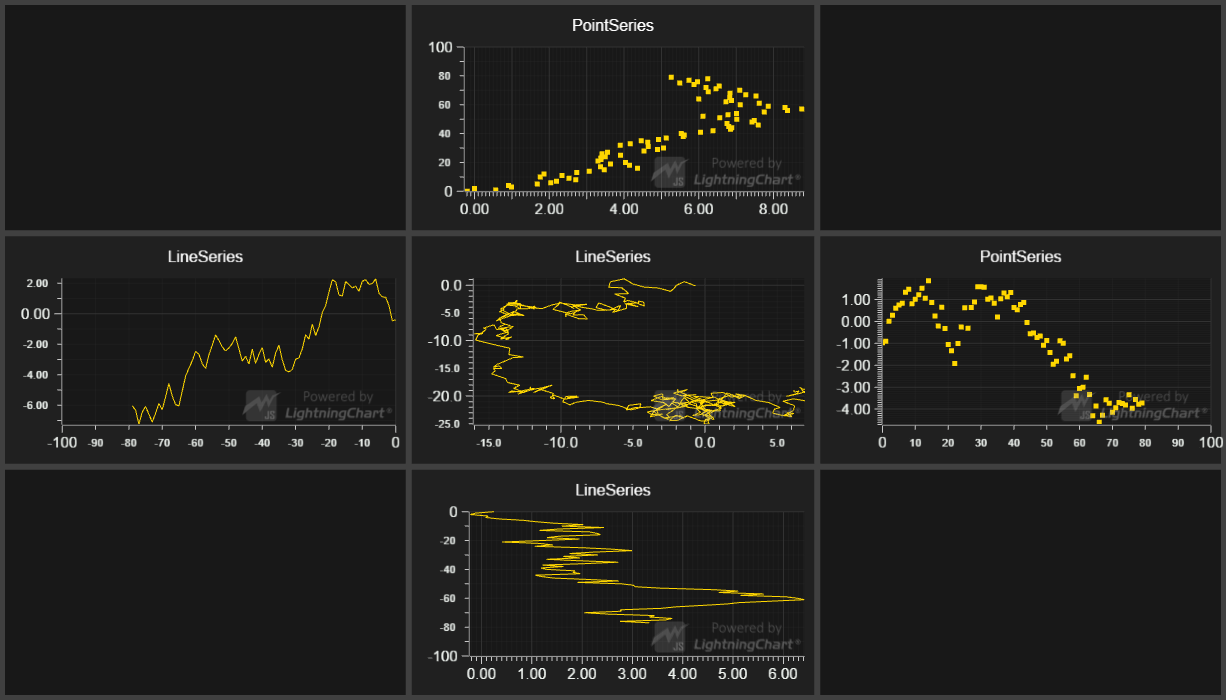
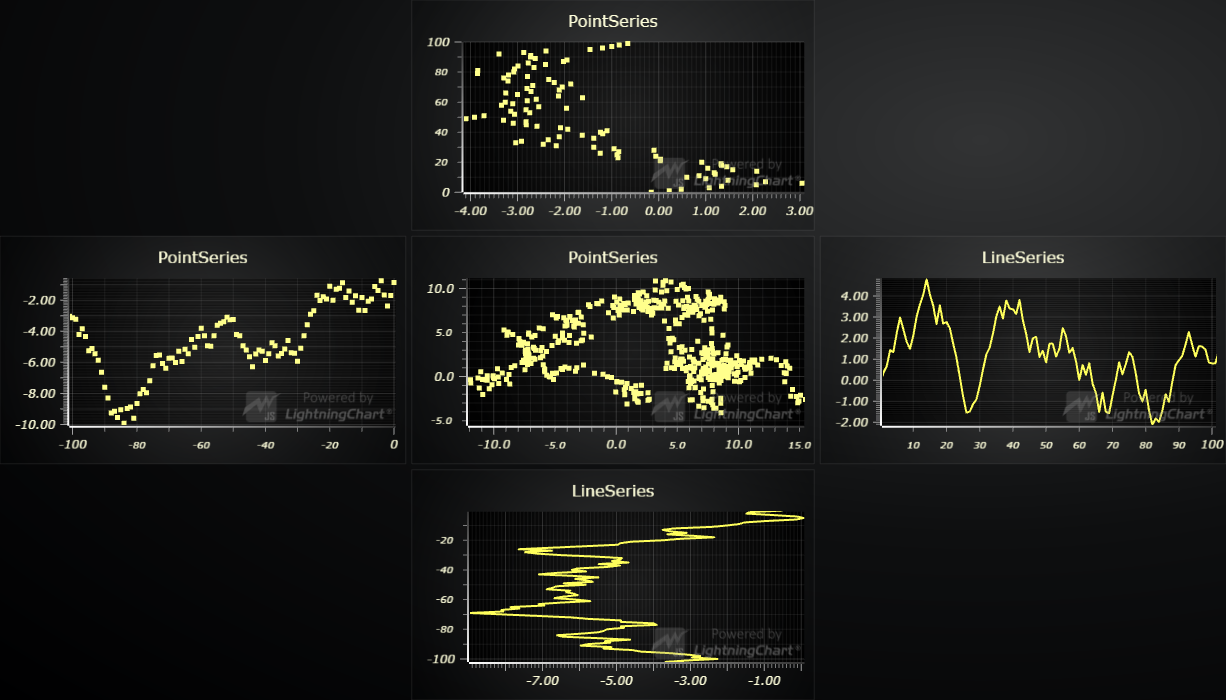
Update LCJS version

Changed region(s): [[0.0, 0.0, 1.0, 1.0], [0.7439, 0.15, 0.8679, 0.27], [0.8059, 0.36, 0.8679, 0.39]]

diff --git a/webpack.config.js b/webpack.config.js
@@ -69,7 +69,8 @@ module.exports = {
         }),
         new CopyWebpackPlugin({
             patterns: [
-                { from: './assets/**/*', to: './examples/assets', flatten: true, noErrorOnMissing: true }
+                { from: './assets/**/*', to: './examples/assets', flatten: true, noErrorOnMissing: true },
+                { from: './node_modules/@arction/lcjs/dist/resources', to: 'resources', noErrorOnMissing: true },
             ]
         })
     ]

diff --git a/src/index.js b/src/index.js
@@ -22,7 +22,7 @@ const {
 
 // Create a 3x3 dashboard.
 const grid = lightningChart().Dashboard({
-    // theme: Themes.dark 
+    // theme: Themes.darkGold 
     numberOfRows: 3,
     numberOfColumns: 3
 })

diff --git a/README.md b/README.md
@@ -55,12 +55,12 @@ Direct developer email support can be purchased through a [Support Plan][4] or b
 © Arction Ltd 2009-2020. All rights reserved.
 
 
-[Dashboard]: https://www.arction.com/lightningchart-js-api-documentation/v3.0.1/classes/dashboard.html
-[Solid FillStyle]: https://www.arction.com/lightningchart-js-api-documentation/v3.0.1/classes/solidfill.html
-[RGBA color factory]: https://www.arction.com/lightningchart-js-api-documentation/v3.0.1/globals.html#colorrgba
-[XY cartesian chart]: https://www.arction.com/lightningchart-js-api-documentation/v3.0.1/classes/chartxy.html
-[Axis]: https://www.arction.com/lightningchart-js-api-documentation/v3.0.1/classes/axis.html
-[Scroll strategies]: https://www.arction.com/lightningchart-js-api-documentation/v3.0.1/globals.html#axisscrollstrategies
-[Freeform line series]: https://www.arction.com/lightningchart-js-api-documentation/v3.0.1/classes/lineseries.html
-[Default library style]: https://www.arction.com/lightningchart-js-api-documentation/v3.0.1/globals.html#defaultlibrarystyle
+[Dashboard]: https://www.arction.com/lightningchart-js-api-documentation/v3.1.0/classes/dashboard.html
+[Solid FillStyle]: https://www.arction.com/lightningchart-js-api-documentation/v3.1.0/classes/solidfill.html
+[RGBA color factory]: https://www.arction.com/lightningchart-js-api-documentation/v3.1.0/globals.html#colorrgba
+[XY cartesian chart]: https://www.arction.com/lightningchart-js-api-documentation/v3.1.0/classes/chartxy.html
+[Axis]: https://www.arction.com/lightningchart-js-api-documentation/v3.1.0/classes/axis.html
+[Scroll strategies]: https://www.arction.com/lightningchart-js-api-documentation/v3.1.0/globals.html#axisscrollstrategies
+[Freeform line series]: https://www.arction.com/lightningchart-js-api-documentation/v3.1.0/classes/lineseries.html
+[Default library style]: https://www.arction.com/lightningchart-js-api-documentation/v3.1.0/globals.html#defaultlibrarystyle
 
